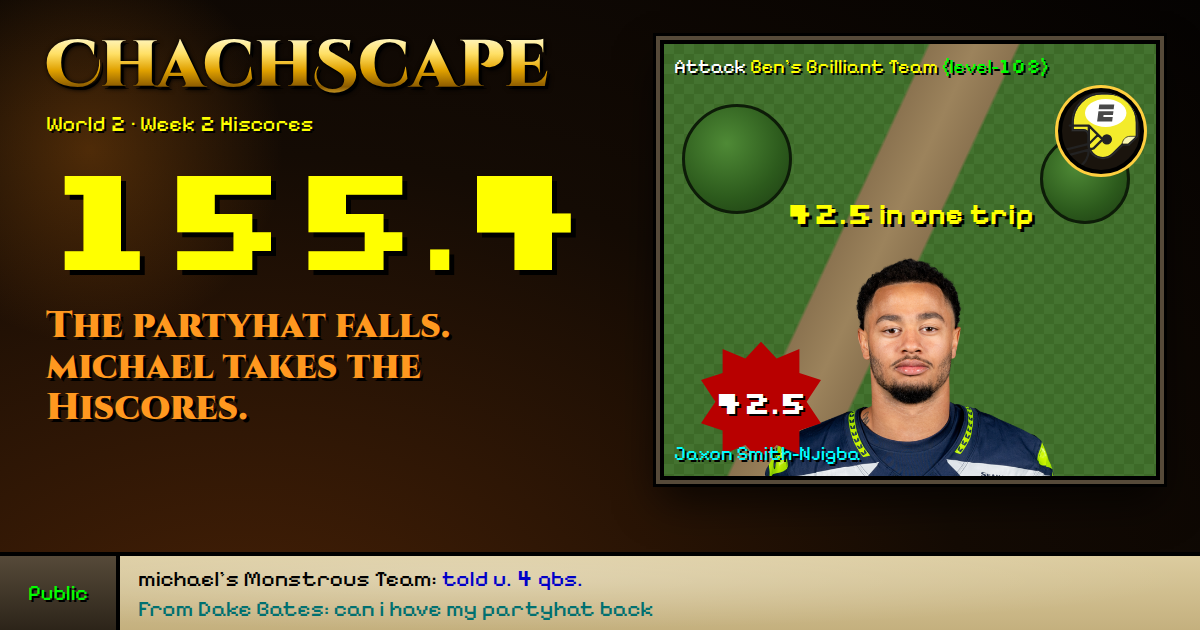
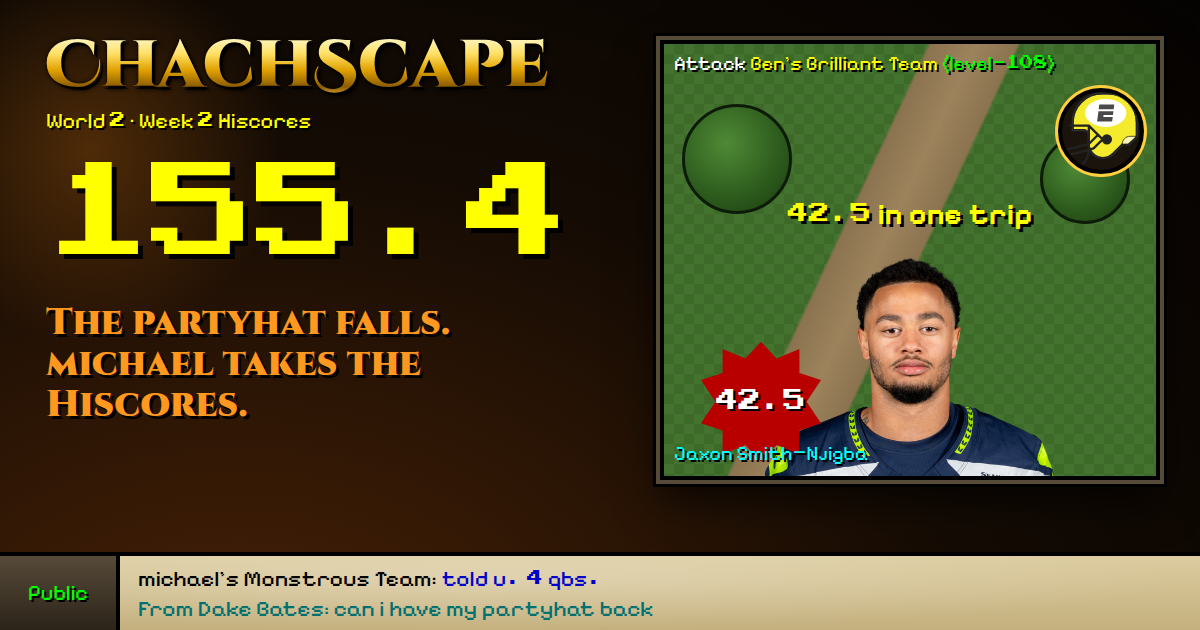
Clearer digits

diff --git a/docs/weeks/week-1-runescape.html b/docs/weeks/week-1-runescape.html
@@ -25,11 +25,12 @@
    Winners are marked by words and yellow, never red versus green.
    Fonts self-hosted in docs/assets/fonts (all OFL).
    ------------------------------------------------------------------ */
-/* Pixelify for letters, Silkscreen for digits: Pixelify's 2 and 5 read as Z and S. */
-@font-face{font-family:"Pixelify";font-weight:400;font-display:swap;unicode-range:U+0000-002F,U+003A-FFFF;src:url("../assets/fonts/pixelify-sans-latin-400-normal.woff2") format("woff2")}
-@font-face{font-family:"Pixelify";font-weight:700;font-display:swap;unicode-range:U+0000-002F,U+003A-FFFF;src:url("../assets/fonts/pixelify-sans-latin-700-normal.woff2") format("woff2")}
-@font-face{font-family:"Pixelify";font-weight:400;font-display:swap;unicode-range:U+0030-0039;src:url("../assets/fonts/silkscreen-latin-400-normal.woff2") format("woff2")}
-@font-face{font-family:"Pixelify";font-weight:700;font-display:swap;unicode-range:U+0030-0039;src:url("../assets/fonts/silkscreen-latin-700-normal.woff2") format("woff2")}
+/* Pixelify for letters, Press Start 2P for digits (scaled to match):
+   Pixelify's 2 and 5 read as Z and S, Silkscreen's 4 looked broken. */
+@font-face{font-family:"Pixelify";font-weight:400;font-display:swap;unicode-range:U+0000-002C,U+002F,U+003A-FFFF;src:url("../assets/fonts/pixelify-sans-latin-400-normal.woff2") format("woff2")}
+@font-face{font-family:"Pixelify";font-weight:700;font-display:swap;unicode-range:U+0000-002C,U+002F,U+003A-FFFF;src:url("../assets/fonts/pixelify-sans-latin-700-normal.woff2") format("woff2")}
+@font-face{font-family:"Pixelify";font-weight:400;font-display:swap;unicode-range:U+002D-002E,U+0030-0039;size-adjust:70%;src:url("../assets/fonts/press-start-2p-latin-400-normal.woff2") format("woff2")}
+@font-face{font-family:"Pixelify";font-weight:700;font-display:swap;unicode-range:U+002D-002E,U+0030-0039;size-adjust:70%;src:url("../assets/fonts/press-start-2p-latin-400-normal.woff2") format("woff2")}
 @font-face{font-family:"Silk";font-weight:400;font-display:swap;src:url("../assets/fonts/silkscreen-latin-400-normal.woff2") format("woff2")}
 @font-face{font-family:"Cinzel D";font-weight:700;font-display:swap;src:url("../assets/fonts/cinzel-decorative-latin-700-normal.woff2") format("woff2")}
 @font-face{font-family:"Cinzel D";font-weight:900;font-display:swap;src:url("../assets/fonts/cinzel-decorative-latin-900-normal.woff2") format("woff2")}
@@ -37,8 +38,8 @@
 @font-face{font-family:"Cinzel";font-weight:900;font-display:swap;src:url("../assets/fonts/cinzel-latin-900-normal.woff2") format("woff2")}
 /* IM Fell for the letters, EB Garamond for the digits: Fell only has old-style
    figures, which make scores like 177.9 hard to read. */
-@font-face{font-family:"Fell";font-style:normal;font-display:swap;unicode-range:U+0000-002F,U+003A-FFFF;src:url("../assets/fonts/im-fell-english-latin-400-normal.woff2") format("woff2")}
-@font-face{font-family:"Fell";font-style:italic;font-display:swap;unicode-range:U+0000-002F,U+003A-FFFF;src:url("../assets/fonts/im-fell-english-latin-400-italic.woff2") format("woff2")}
+@font-face{font-family:"Fell";font-style:normal;font-display:swap;unicode-range:U+0000-002C,U+002F,U+003A-FFFF;src:url("../assets/fonts/im-fell-english-latin-400-normal.woff2") format("woff2")}
+@font-face{font-family:"Fell";font-style:italic;font-display:swap;unicode-range:U+0000-002C,U+002F,U+003A-FFFF;src:url("../assets/fonts/im-fell-english-latin-400-italic.woff2") format("woff2")}
 @font-face{font-family:"Fell";font-style:normal;font-display:swap;unicode-range:U+0030-0039;src:url("../assets/fonts/eb-garamond-latin-500-normal.woff2") format("woff2")}
 @font-face{font-family:"Fell";font-style:italic;font-display:swap;unicode-range:U+0030-0039;src:url("../assets/fonts/eb-garamond-latin-500-italic.woff2") format("woff2")}
 
@@ -404,6 +405,7 @@ footer{margin-top:46px;padding-top:16px;border-top:2px solid #000;color:var(--di
   .lg-r{font-size:20px}
   .lg-p{grid-column:1/-1;text-align:left;display:flex;align-items:baseline;gap:10px;flex-wrap:wrap}
   .lg-p b{font-size:24px}
+  .lg-p span{white-space:normal}
   .scroll{padding:12px 13px 14px}
   .sc-b,.log.first .sc-b{grid-template-columns:1fr}
   .port{display:flex;align-items:center;gap:14px;text-align:left}

diff --git a/docs/weeks/week-2.html b/docs/weeks/week-2.html
@@ -25,11 +25,12 @@
    Winners are marked by words and yellow, never red versus green.
    Fonts self-hosted in docs/assets/fonts (all OFL).
    ------------------------------------------------------------------ */
-/* Pixelify for letters, Silkscreen for digits: Pixelify's 2 and 5 read as Z and S. */
-@font-face{font-family:"Pixelify";font-weight:400;font-display:swap;unicode-range:U+0000-002F,U+003A-FFFF;src:url("../assets/fonts/pixelify-sans-latin-400-normal.woff2") format("woff2")}
-@font-face{font-family:"Pixelify";font-weight:700;font-display:swap;unicode-range:U+0000-002F,U+003A-FFFF;src:url("../assets/fonts/pixelify-sans-latin-700-normal.woff2") format("woff2")}
-@font-face{font-family:"Pixelify";font-weight:400;font-display:swap;unicode-range:U+0030-0039;src:url("../assets/fonts/silkscreen-latin-400-normal.woff2") format("woff2")}
-@font-face{font-family:"Pixelify";font-weight:700;font-display:swap;unicode-range:U+0030-0039;src:url("../assets/fonts/silkscreen-latin-700-normal.woff2") format("woff2")}
+/* Pixelify for letters, Press Start 2P for digits (scaled to match):
+   Pixelify's 2 and 5 read as Z and S, Silkscreen's 4 looked broken. */
+@font-face{font-family:"Pixelify";font-weight:400;font-display:swap;unicode-range:U+0000-002C,U+002F,U+003A-FFFF;src:url("../assets/fonts/pixelify-sans-latin-400-normal.woff2") format("woff2")}
+@font-face{font-family:"Pixelify";font-weight:700;font-display:swap;unicode-range:U+0000-002C,U+002F,U+003A-FFFF;src:url("../assets/fonts/pixelify-sans-latin-700-normal.woff2") format("woff2")}
+@font-face{font-family:"Pixelify";font-weight:400;font-display:swap;unicode-range:U+002D-002E,U+0030-0039;size-adjust:70%;src:url("../assets/fonts/press-start-2p-latin-400-normal.woff2") format("woff2")}
+@font-face{font-family:"Pixelify";font-weight:700;font-display:swap;unicode-range:U+002D-002E,U+0030-0039;size-adjust:70%;src:url("../assets/fonts/press-start-2p-latin-400-normal.woff2") format("woff2")}
 @font-face{font-family:"Silk";font-weight:400;font-display:swap;src:url("../assets/fonts/silkscreen-latin-400-normal.woff2") format("woff2")}
 @font-face{font-family:"Cinzel D";font-weight:700;font-display:swap;src:url("../assets/fonts/cinzel-decorative-latin-700-normal.woff2") format("woff2")}
 @font-face{font-family:"Cinzel D";font-weight:900;font-display:swap;src:url("../assets/fonts/cinzel-decorative-latin-900-normal.woff2") format("woff2")}
@@ -37,8 +38,8 @@
 @font-face{font-family:"Cinzel";font-weight:900;font-display:swap;src:url("../assets/fonts/cinzel-latin-900-normal.woff2") format("woff2")}
 /* IM Fell for the letters, EB Garamond for the digits: Fell only has old-style
    figures, which make scores like 177.9 hard to read. */
-@font-face{font-family:"Fell";font-style:normal;font-display:swap;unicode-range:U+0000-002F,U+003A-FFFF;src:url("../assets/fonts/im-fell-english-latin-400-normal.woff2") format("woff2")}
-@font-face{font-family:"Fell";font-style:italic;font-display:swap;unicode-range:U+0000-002F,U+003A-FFFF;src:url("../assets/fonts/im-fell-english-latin-400-italic.woff2") format("woff2")}
+@font-face{font-family:"Fell";font-style:normal;font-display:swap;unicode-range:U+0000-002C,U+002F,U+003A-FFFF;src:url("../assets/fonts/im-fell-english-latin-400-normal.woff2") format("woff2")}
+@font-face{font-family:"Fell";font-style:italic;font-display:swap;unicode-range:U+0000-002C,U+002F,U+003A-FFFF;src:url("../assets/fonts/im-fell-english-latin-400-italic.woff2") format("woff2")}
 @font-face{font-family:"Fell";font-style:normal;font-display:swap;unicode-range:U+0030-0039;src:url("../assets/fonts/eb-garamond-latin-500-normal.woff2") format("woff2")}
 @font-face{font-family:"Fell";font-style:italic;font-display:swap;unicode-range:U+0030-0039;src:url("../assets/fonts/eb-garamond-latin-500-italic.woff2") format("woff2")}
 
@@ -404,6 +405,7 @@ footer{margin-top:46px;padding-top:16px;border-top:2px solid #000;color:var(--di
   .lg-r{font-size:20px}
   .lg-p{grid-column:1/-1;text-align:left;display:flex;align-items:baseline;gap:10px;flex-wrap:wrap}
   .lg-p b{font-size:24px}
+  .lg-p span{white-space:normal}
   .scroll{padding:12px 13px 14px}
   .sc-b,.log.first .sc-b{grid-template-columns:1fr}
   .port{display:flex;align-items:center;gap:14px;text-align:left}

diff --git a/scripts/skins/runescape.css b/scripts/skins/runescape.css
@@ -7,11 +7,12 @@
    Winners are marked by words and yellow, never red versus green.
    Fonts self-hosted in docs/assets/fonts (all OFL).
    ------------------------------------------------------------------ */
-/* Pixelify for letters, Silkscreen for digits: Pixelify's 2 and 5 read as Z and S. */
-@font-face{font-family:"Pixelify";font-weight:400;font-display:swap;unicode-range:U+0000-002F,U+003A-FFFF;src:url("../assets/fonts/pixelify-sans-latin-400-normal.woff2") format("woff2")}
-@font-face{font-family:"Pixelify";font-weight:700;font-display:swap;unicode-range:U+0000-002F,U+003A-FFFF;src:url("../assets/fonts/pixelify-sans-latin-700-normal.woff2") format("woff2")}
-@font-face{font-family:"Pixelify";font-weight:400;font-display:swap;unicode-range:U+0030-0039;src:url("../assets/fonts/silkscreen-latin-400-normal.woff2") format("woff2")}
-@font-face{font-family:"Pixelify";font-weight:700;font-display:swap;unicode-range:U+0030-0039;src:url("../assets/fonts/silkscreen-latin-700-normal.woff2") format("woff2")}
+/* Pixelify for letters, Press Start 2P for digits (scaled to match):
+   Pixelify's 2 and 5 read as Z and S, Silkscreen's 4 looked broken. */
+@font-face{font-family:"Pixelify";font-weight:400;font-display:swap;unicode-range:U+0000-002C,U+002F,U+003A-FFFF;src:url("../assets/fonts/pixelify-sans-latin-400-normal.woff2") format("woff2")}
+@font-face{font-family:"Pixelify";font-weight:700;font-display:swap;unicode-range:U+0000-002C,U+002F,U+003A-FFFF;src:url("../assets/fonts/pixelify-sans-latin-700-normal.woff2") format("woff2")}
+@font-face{font-family:"Pixelify";font-weight:400;font-display:swap;unicode-range:U+002D-002E,U+0030-0039;size-adjust:70%;src:url("../assets/fonts/press-start-2p-latin-400-normal.woff2") format("woff2")}
+@font-face{font-family:"Pixelify";font-weight:700;font-display:swap;unicode-range:U+002D-002E,U+0030-0039;size-adjust:70%;src:url("../assets/fonts/press-start-2p-latin-400-normal.woff2") format("woff2")}
 @font-face{font-family:"Silk";font-weight:400;font-display:swap;src:url("../assets/fonts/silkscreen-latin-400-normal.woff2") format("woff2")}
 @font-face{font-family:"Cinzel D";font-weight:700;font-display:swap;src:url("../assets/fonts/cinzel-decorative-latin-700-normal.woff2") format("woff2")}
 @font-face{font-family:"Cinzel D";font-weight:900;font-display:swap;src:url("../assets/fonts/cinzel-decorative-latin-900-normal.woff2") format("woff2")}
@@ -19,8 +20,8 @@
 @font-face{font-family:"Cinzel";font-weight:900;font-display:swap;src:url("../assets/fonts/cinzel-latin-900-normal.woff2") format("woff2")}
 /* IM Fell for the letters, EB Garamond for the digits: Fell only has old-style
    figures, which make scores like 177.9 hard to read. */
-@font-face{font-family:"Fell";font-style:normal;font-display:swap;unicode-range:U+0000-002F,U+003A-FFFF;src:url("../assets/fonts/im-fell-english-latin-400-normal.woff2") format("woff2")}
-@font-face{font-family:"Fell";font-style:italic;font-display:swap;unicode-range:U+0000-002F,U+003A-FFFF;src:url("../assets/fonts/im-fell-english-latin-400-italic.woff2") format("woff2")}
+@font-face{font-family:"Fell";font-style:normal;font-display:swap;unicode-range:U+0000-002C,U+002F,U+003A-FFFF;src:url("../assets/fonts/im-fell-english-latin-400-normal.woff2") format("woff2")}
+@font-face{font-family:"Fell";font-style:italic;font-display:swap;unicode-range:U+0000-002C,U+002F,U+003A-FFFF;src:url("../assets/fonts/im-fell-english-latin-400-italic.woff2") format("woff2")}
 @font-face{font-family:"Fell";font-style:normal;font-display:swap;unicode-range:U+0030-0039;src:url("../assets/fonts/eb-garamond-latin-500-normal.woff2") format("woff2")}
 @font-face{font-family:"Fell";font-style:italic;font-display:swap;unicode-range:U+0030-0039;src:url("../assets/fonts/eb-garamond-latin-500-italic.woff2") format("woff2")}
 
@@ -386,6 +387,7 @@ footer{margin-top:46px;padding-top:16px;border-top:2px solid #000;color:var(--di
   .lg-r{font-size:20px}
   .lg-p{grid-column:1/-1;text-align:left;display:flex;align-items:baseline;gap:10px;flex-wrap:wrap}
   .lg-p b{font-size:24px}
+  .lg-p span{white-space:normal}
   .scroll{padding:12px 13px 14px}
   .sc-b,.log.first .sc-b{grid-template-columns:1fr}
   .port{display:flex;align-items:center;gap:14px;text-align:left}

diff --git a/scripts/og_card.py b/scripts/og_card.py
@@ -48,10 +48,10 @@ def build(week: int, copy_path: str) -> str:
     fonts = f"{docs}/assets/fonts"
     headline = c.get("card_headline") or c.get("headline", "")
     return f'''<!doctype html><html><head><meta charset="utf-8"><style>
-@font-face{{font-family:P;font-weight:400;unicode-range:U+0000-002F,U+003A-FFFF;src:url({fonts}/pixelify-sans-latin-400-normal.woff2)}}
-@font-face{{font-family:P;font-weight:700;unicode-range:U+0000-002F,U+003A-FFFF;src:url({fonts}/pixelify-sans-latin-700-normal.woff2)}}
-@font-face{{font-family:P;font-weight:400;unicode-range:U+0030-0039;src:url({fonts}/silkscreen-latin-400-normal.woff2)}}
-@font-face{{font-family:P;font-weight:700;unicode-range:U+0030-0039;src:url({fonts}/silkscreen-latin-700-normal.woff2)}}
+@font-face{{font-family:P;font-weight:400;unicode-range:U+0000-002C,U+002F,U+003A-FFFF;src:url({fonts}/pixelify-sans-latin-400-normal.woff2)}}
+@font-face{{font-family:P;font-weight:700;unicode-range:U+0000-002C,U+002F,U+003A-FFFF;src:url({fonts}/pixelify-sans-latin-700-normal.woff2)}}
+@font-face{{font-family:P;font-weight:400;unicode-range:U+002D-002E,U+0030-0039;size-adjust:70%;src:url({fonts}/press-start-2p-latin-400-normal.woff2)}}
+@font-face{{font-family:P;font-weight:700;unicode-range:U+002D-002E,U+0030-0039;size-adjust:70%;src:url({fonts}/press-start-2p-latin-400-normal.woff2)}}
 @font-face{{font-family:CD;src:url({fonts}/cinzel-decorative-latin-900-normal.woff2)}}
 @font-face{{font-family:C;src:url({fonts}/cinzel-latin-900-normal.woff2)}}
 *{{box-sizing:border-box;margin:0;padding:0}}
